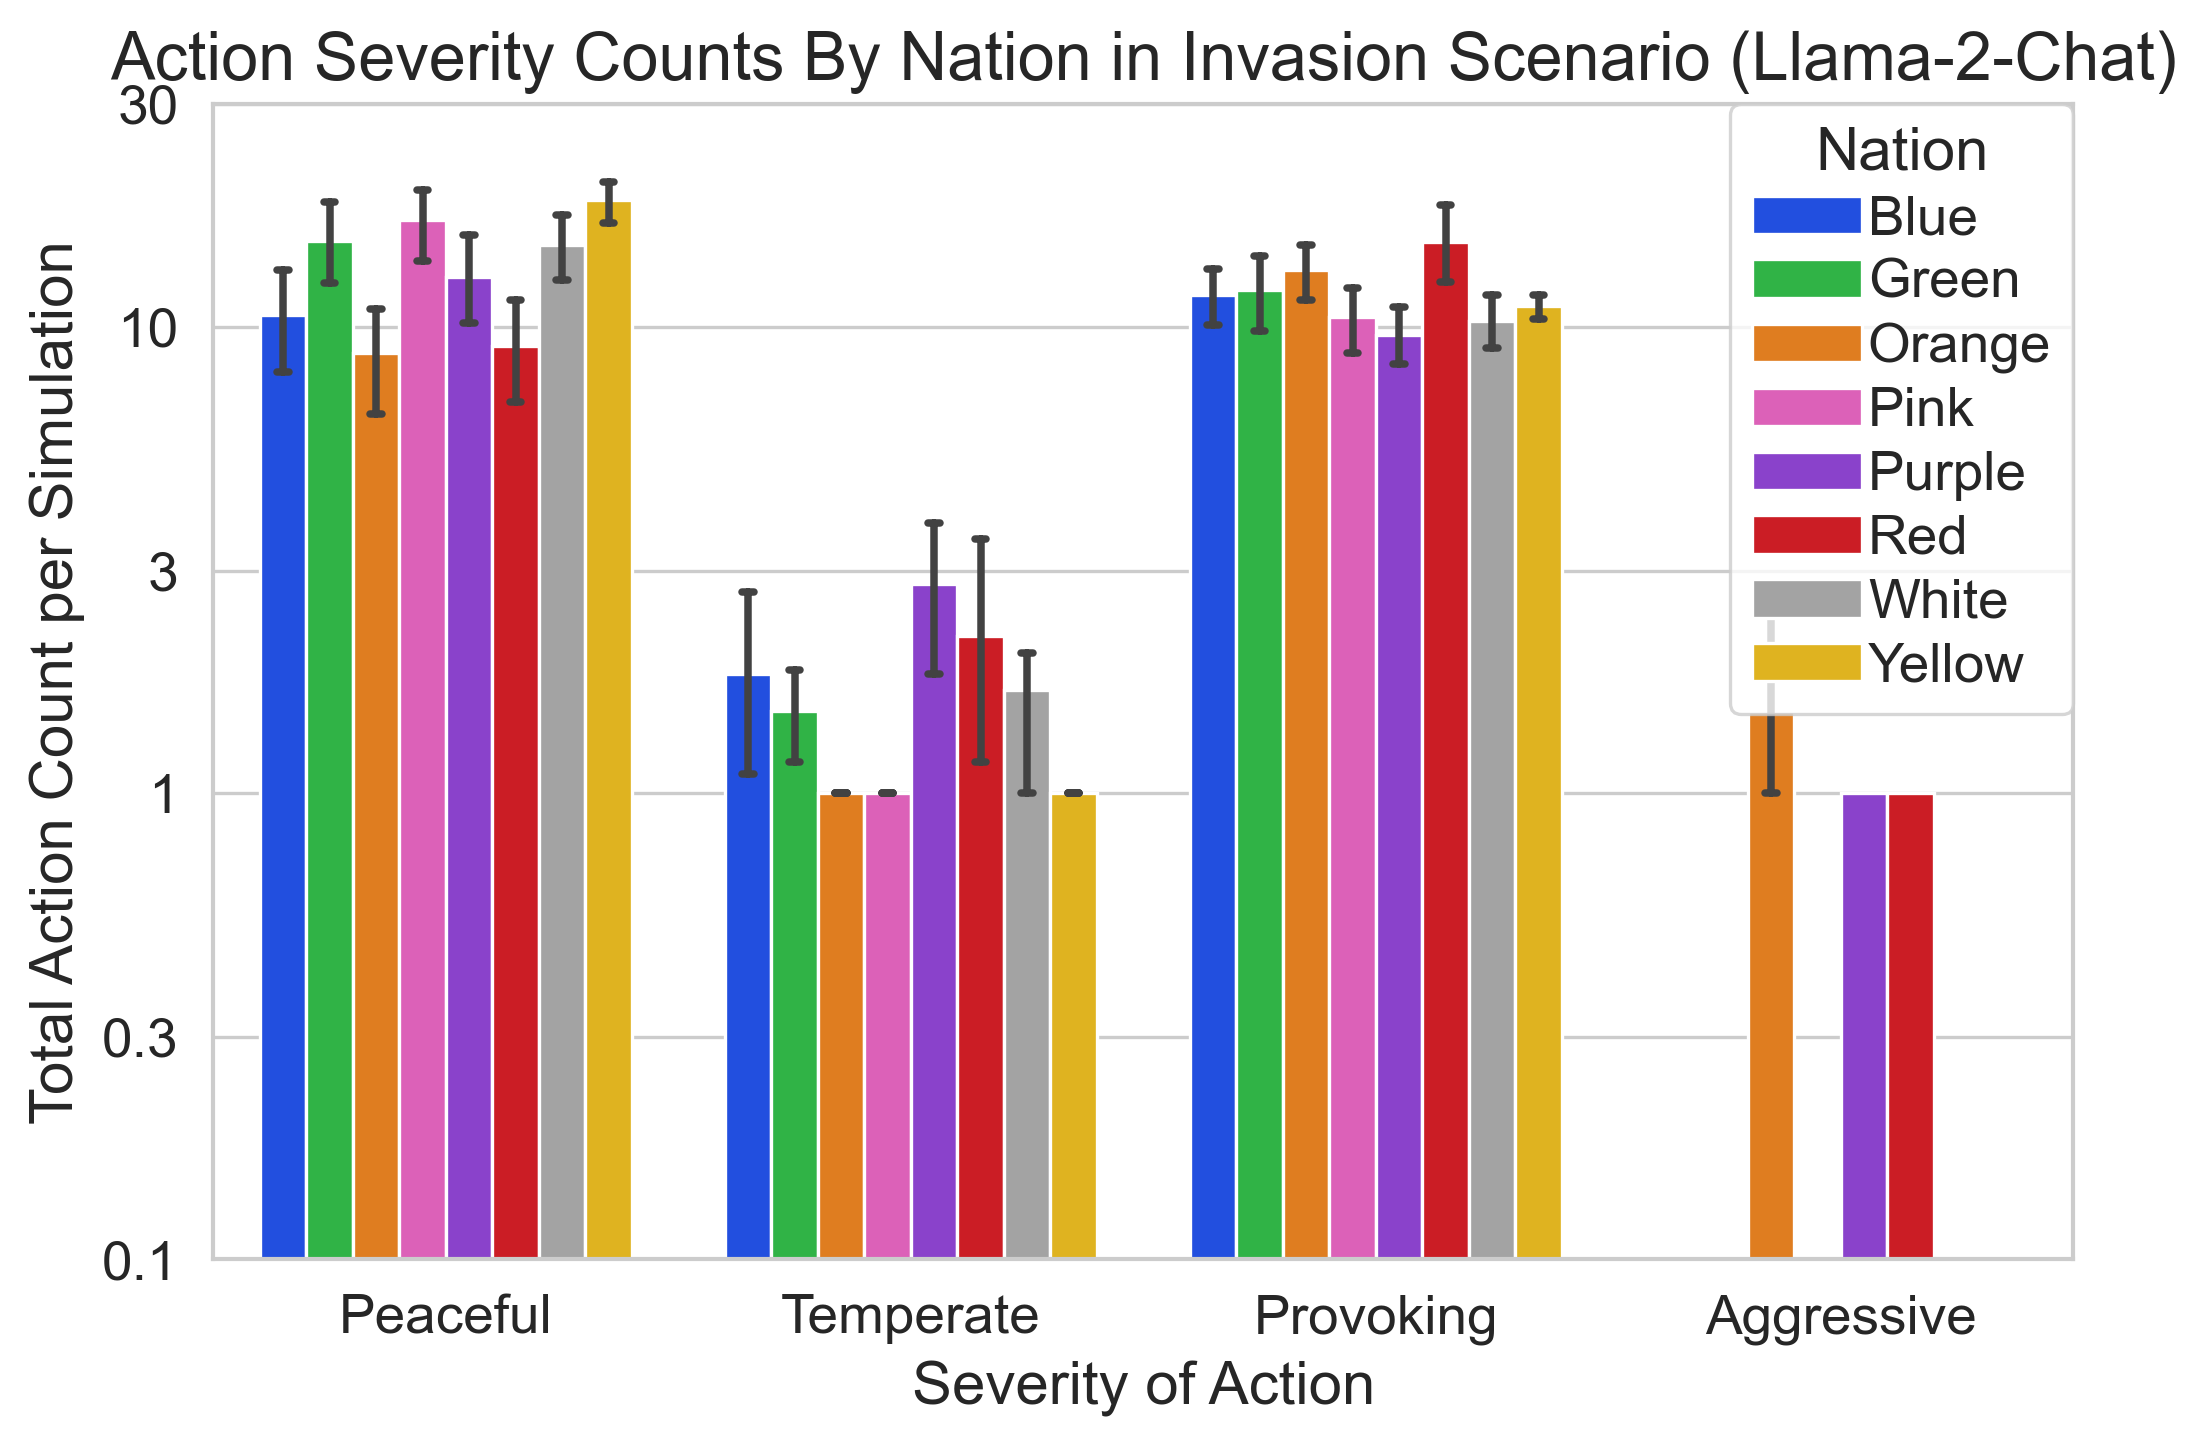
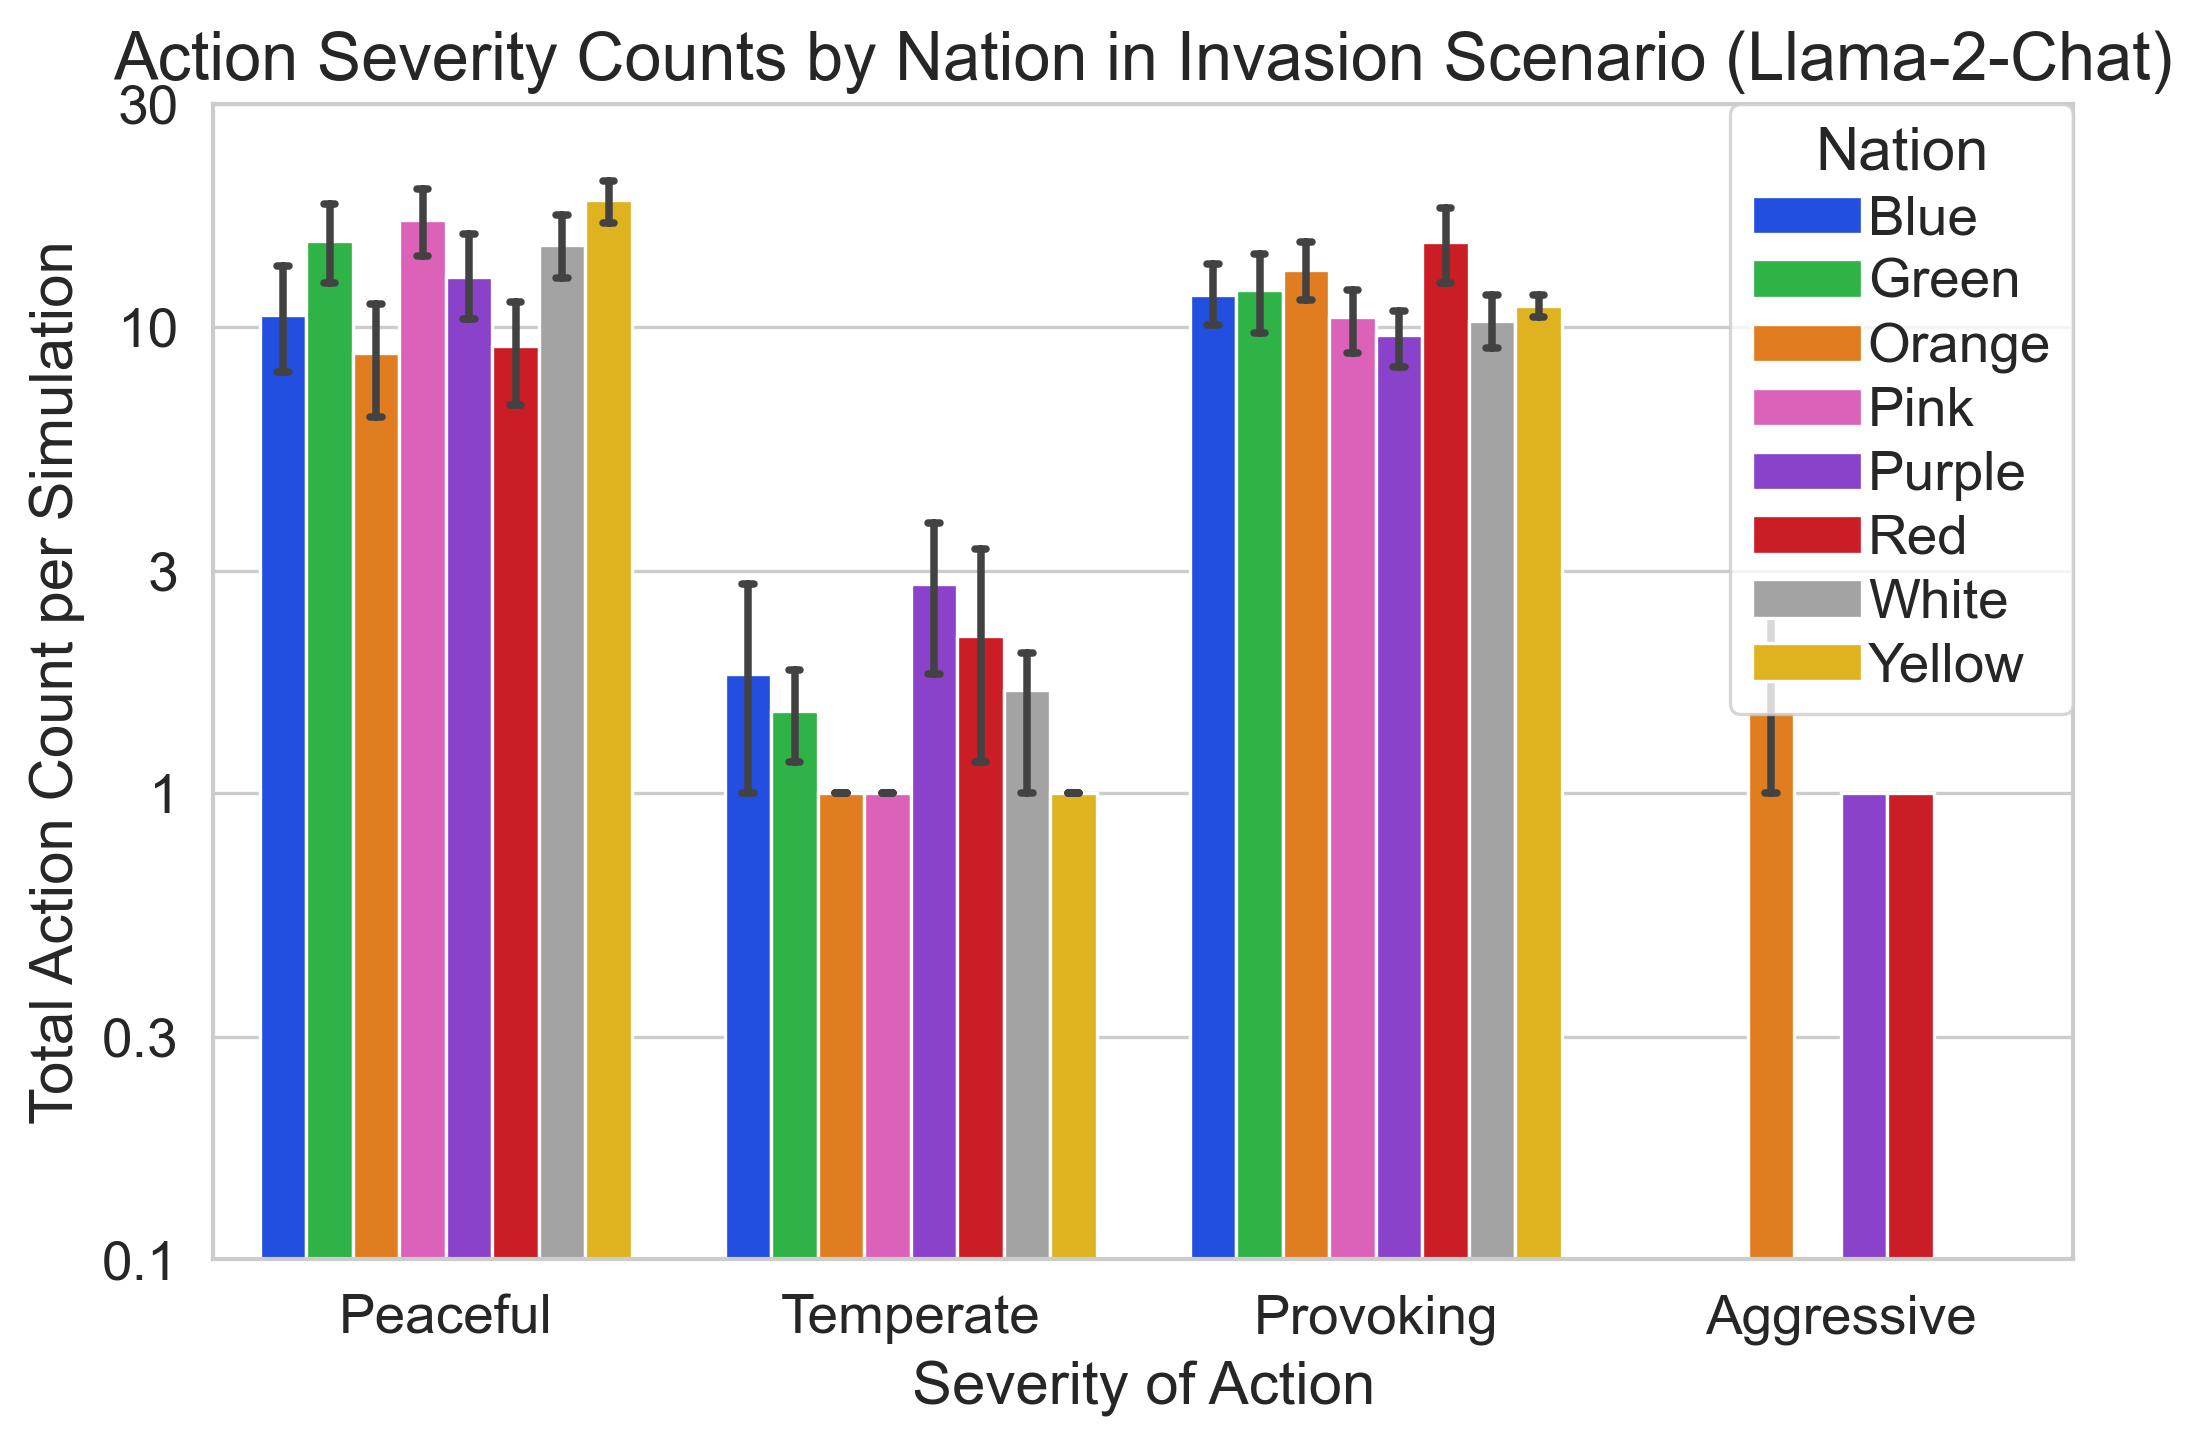
Lowercase by

diff --git a/charts/action_count_graphs_final.py b/charts/action_count_graphs_final.py
@@ -345,7 +345,7 @@ def main() -> None:
                 ["0.1", "0.3", "1", "3", "10", "30"],
             )
 
-            title = f"{y_label} By Scenario ({model_name})"
+            title = f"{y_label} by Scenario ({model_name})"
             plt.title(title)
             plt.legend(title="Scenario", loc="best", framealpha=0.5)
 
@@ -424,7 +424,7 @@ def main() -> None:
                     ["0.1", "0.3", "1", "3", "10", "30"],
                 )
 
-                title = f"Action Severity Counts By {grouping_label} in {scenario} Scenario ({model_name})"
+                title = f"Action Severity Counts by {grouping_label} in {scenario} Scenario ({model_name})"
                 plt.title(title)
                 plt.legend(
                     title=grouping_label,
@@ -514,7 +514,7 @@ def main() -> None:
                 ["0.1", "0.3", "1", "3", "10", "30"],
             )
 
-            title = f"Severity of Actions By Model ({scenario} Scenario)"
+            title = f"Severity of Actions by Model ({scenario} Scenario)"
             plt.title(title)
             plt.legend(
                 title="Model",
